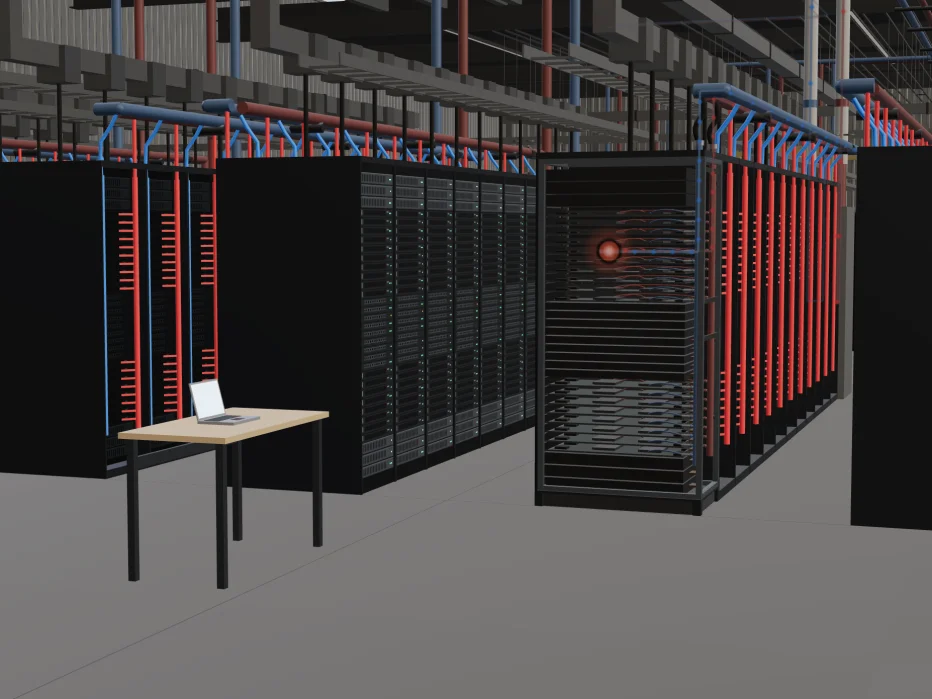
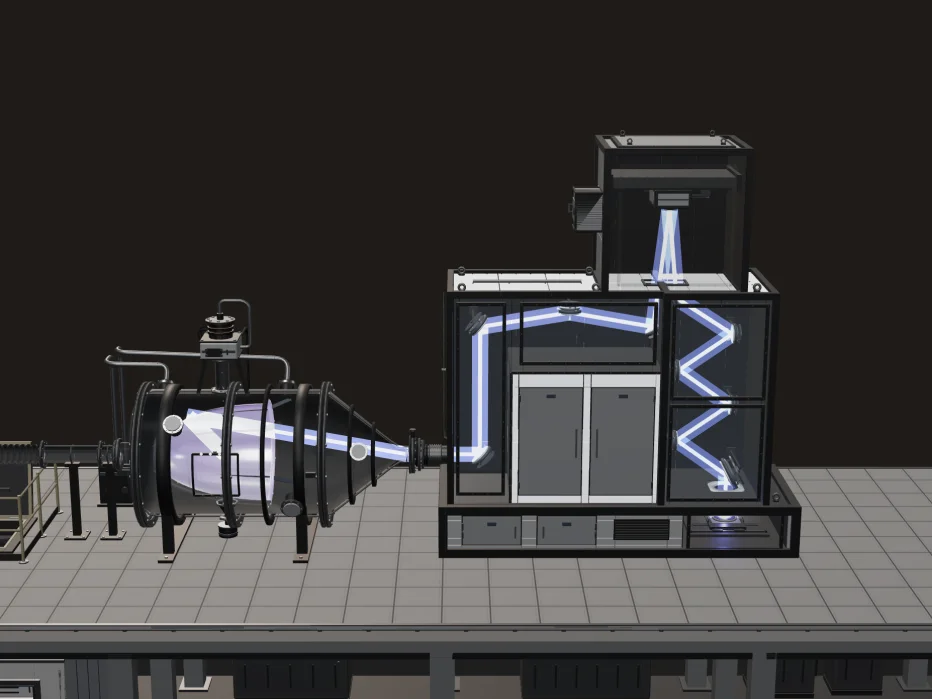
feat(euv-lithography): add the cover and social card

diff --git a/scripts/cards/euv-lithography.html b/scripts/cards/euv-lithography.html
@@ -47,9 +47,9 @@
 
       .shot img {
         position: absolute;
-        top: -30px;
-        left: -60px;
-        width: 1000px;
+        top: 0;
+        left: -120px;
+        width: 840px;
       }
 
       .shot::after {
@@ -136,12 +136,12 @@
     <main class="copy">
       <p class="eyebrow">
         <img src="../../public/favicon.svg" alt="" />
-        Computing
+        Optics
       </p>
       <h1>How an EUV chip machine works</h1>
       <p class="subtitle">
-        Follow one flash of light through an EUV chip machine in 3D: from a tin droplet to the
-        wafer, and back down to about 2 percent.
+        Follow one flash of light through an EUV chip machine in 3D, from a tin droplet to a wafer,
+        and see how it prints lines 13 nm wide.
       </p>
       <ol class="topics">
         <li style="--tone: var(--machine)">Machine</li>
